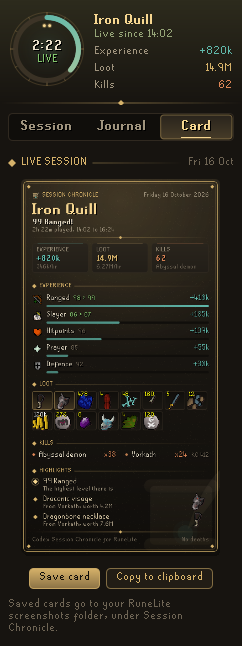
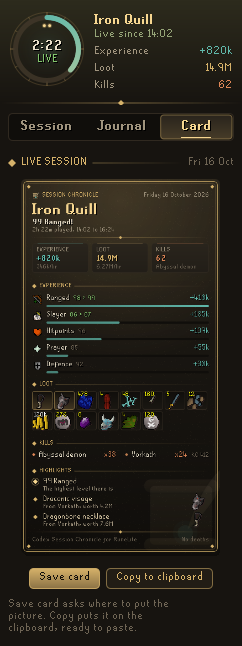
Save cards through RuneLite's Filepath chooser
Plugin Hub review asks plugins to avoid direct java.io/java.nio file
access. Save card now asks where to save with Filepath.Chooser and
writes through the chosen Filepath, instead of writing into the
screenshots folder itself.

Claude-Session: https://claude.ai/code/session_01CTdG2JkhvCZmXD6W2r2nA9

Changed region(s): [[0.0579, 0.9288, 0.7231, 0.9907]]

diff --git a/src/main/java/com/codex/sessionchronicle/CodexSessionChroniclePlugin.java b/src/main/java/com/codex/sessionchronicle/CodexSessionChroniclePlugin.java
@@ -19,8 +19,8 @@ import com.google.gson.reflect.TypeToken;
 import com.google.inject.Provides;
 import java.awt.Toolkit;
 import java.awt.image.BufferedImage;
-import java.io.File;
 import java.io.IOException;
+import java.io.OutputStream;
 import java.lang.reflect.Type;
 import java.time.ZoneId;
 import java.util.ArrayList;
@@ -45,7 +45,6 @@ import net.runelite.api.events.ChatMessage;
 import net.runelite.api.events.GameStateChanged;
 import net.runelite.api.events.GameTick;
 import net.runelite.api.events.StatChanged;
-import net.runelite.client.RuneLite;
 import net.runelite.client.callback.ClientThread;
 import net.runelite.client.chat.ChatColorType;
 import net.runelite.client.chat.ChatMessageBuilder;
@@ -66,6 +65,7 @@ import net.runelite.client.ui.ClientToolbar;
 import net.runelite.client.ui.NavigationButton;
 import net.runelite.client.ui.overlay.OverlayManager;
 import net.runelite.client.util.AsyncBufferedImage;
+import net.runelite.client.util.Filepath;
 import net.runelite.client.util.Text;
 import net.runelite.http.api.loottracker.LootRecordType;
 import org.slf4j.Logger;
@@ -557,27 +557,29 @@ public class CodexSessionChroniclePlugin extends Plugin
 		}
 	}
 
+	/** Asks where to save the card with RuneLite's own file chooser, then writes it there; runs on the Swing thread. */
 	private void saveCard(BufferedImage card, Summary session)
 	{
-		String player = session.getPlayer();
+		List<Filepath> chosen = new Filepath.Chooser()
+			.setIsSave()
+			.setAcceptsFiles()
+			.setDialogTitle("Save session card")
+			.addExtensionFilter("PNG image", "png")
+			.setDefaultExtension("png")
+			.setFileName("Session " + Format.file(session.getStartedAt()) + ".png")
+			.showDialog(panel);
+		if (chosen == null || chosen.isEmpty())
+		{
+			return;
+		}
+		Filepath target = chosen.get(0);
 		executor.execute(() ->
 		{
-			File folder = new File(RuneLite.SCREENSHOT_DIR, (player == null ? "" : player + File.separator) + "Session Chronicle");
-			String base = "Session " + Format.file(session.getStartedAt());
-			File file = new File(folder, base + ".png");
-			for (int i = 1; file.exists(); i++)
-			{
-				file = new File(folder, base + " (" + i + ").png");
-			}
 			String note;
-			try
+			try (OutputStream out = target.openOutputStream())
 			{
-				if (!folder.isDirectory() && !folder.mkdirs())
-				{
-					throw new IOException("Could not make " + folder);
-				}
-				ImageIO.write(card, "png", file);
-				note = "Saved as " + file.getName() + " in your RuneLite screenshots folder.";
+				ImageIO.write(card, "png", out);
+				note = "Saved as " + target.getFileName() + ".";
 			}
 			catch (IOException e)
 			{
@@ -585,10 +587,10 @@ public class CodexSessionChroniclePlugin extends Plugin
 				note = "The card could not be saved: " + e.getMessage();
 			}
 			String shown = note;
-			ChroniclePanel target = panel;
-			if (target != null)
+			ChroniclePanel view = panel;
+			if (view != null)
 			{
-				SwingUtilities.invokeLater(() -> target.cardNote(shown));
+				SwingUtilities.invokeLater(() -> view.cardNote(shown));
 			}
 		});
 	}

diff --git a/src/main/java/com/codex/sessionchronicle/ui/ChroniclePanel.java b/src/main/java/com/codex/sessionchronicle/ui/ChroniclePanel.java
@@ -228,7 +228,7 @@ public class ChroniclePanel extends PluginPanel
 			Format.day(s.getStartedAt())));
 		stack.add(new CardPreview(cardImage));
 		stack.add(buttons);
-		String note = cardNote != null ? cardNote : "Saved cards go to your RuneLite screenshots folder, under Session Chronicle.";
+		String note = cardNote != null ? cardNote : "Save card asks where to put the picture. Copy puts it on the clipboard, ready to paste.";
 		stack.add(Ui.wrapped(note, Theme.small(), cardNote != null ? Theme.TEAL : Theme.TEXT_FAINT, SessionView.WIDTH - 10));
 		replace(card, stack);
 	}

diff --git a/README.md b/README.md
@@ -15,7 +15,7 @@ It is the fifth plugin in the **Codex** suite, after [Codex Navigator](https://g
 - **Session.** A clock that fills through each hour you play, then the session at a glance: a headline ("99 Ranged!", "24 Vorkath kills"), experience and loot with their hourly rates, levels gained and kills. Below that, every skill you trained with the levels it rose through, your loot laid out like bank slots, kills with the game's own kill count, and a timeline of the session's moments.
 - **Moments.** Level ups and 99s, pets, new collection log slots, drops worth more than a value you choose, quests, achievement diaries, combat tasks, clue scrolls, personal bests and deaths, each with the time it happened.
 - **Journal.** Every finished session, newest first, with your records (most experience, most loot), your hours this week, your streak of days played, and a chart of recent sessions by experience, loot or time. Click any session to open it again.
-- **Card.** The session as a picture: your name, the headline, totals, top skills, best loot, kills and highlights on a gilt-framed page, drawn at double scale so the pixel fonts stay crisp. Save it to your RuneLite screenshots folder or copy it straight to the clipboard.
+- **Card.** The session as a picture: your name, the headline, totals, top skills, best loot, kills and highlights on a gilt-framed page, drawn at double scale so the pixel fonts stay crisp. Save it wherever you choose with RuneLite's file chooser, or copy it straight to the clipboard.
 - **Ticker.** An optional slim plaque in the game view with the session's clock, experience and loot.
 
 <p align="center">
@@ -32,7 +32,7 @@ When a new session begins, a line in the chat box recaps the one before. Both th
 
 ## Rules posture
 
-Session Chronicle only reads what the game already shows you: your experience, loot events, and the game's own chat messages. It does not click, change menus or send anything over the network. Sessions are saved per account in your RuneLite profile, and cards are only written when you press Save.
+Session Chronicle only reads what the game already shows you: your experience, loot events, and the game's own chat messages. It does not click, change menus or send anything over the network. Sessions are saved per account in your RuneLite profile, and a card is only written when you press Save and pick where it goes.
 
 ## Development
 
